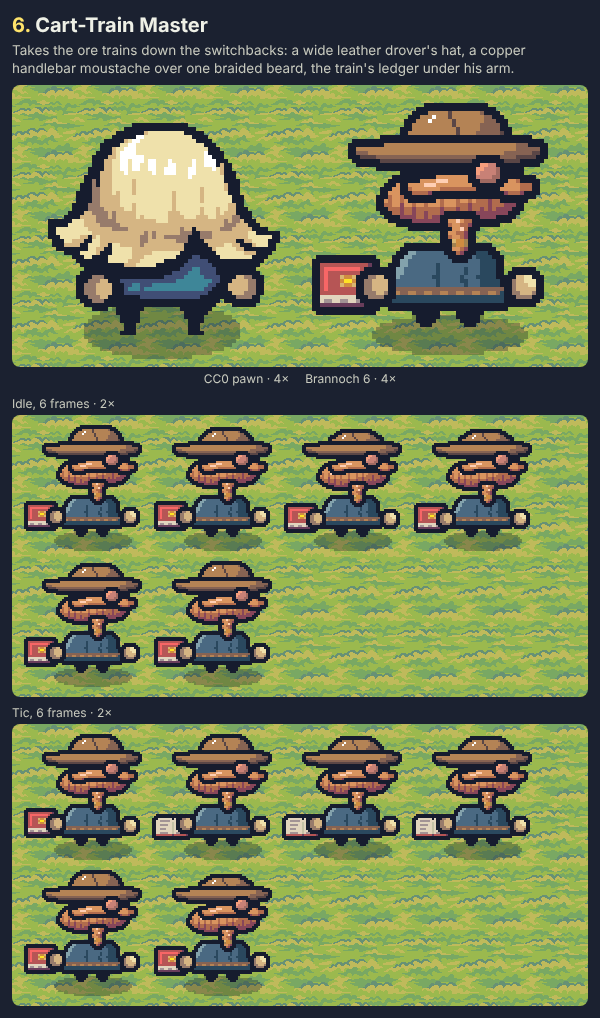
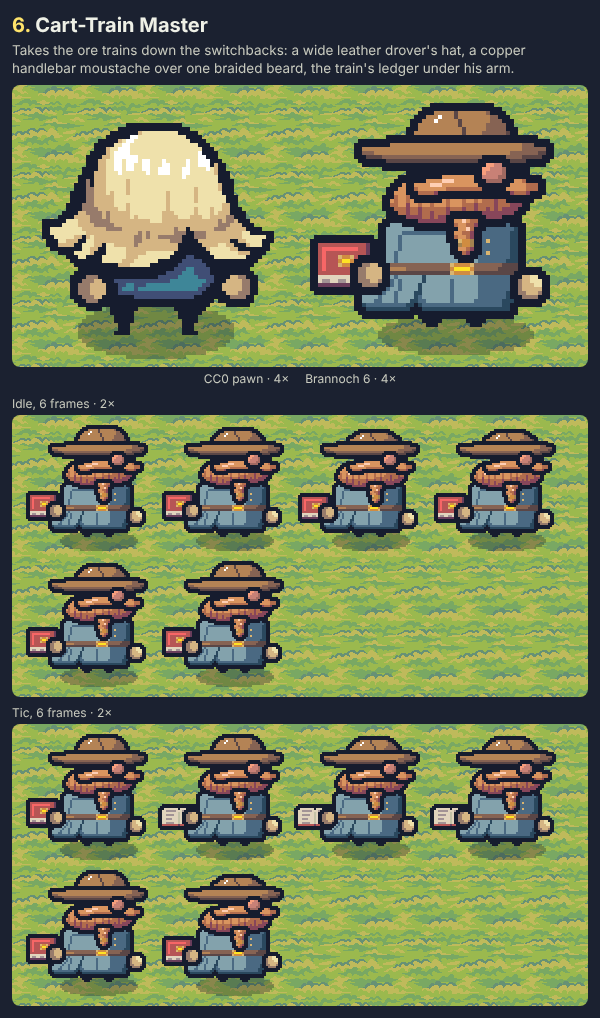
Brannoch: the top three get bodies of their own
The designer: "Body doesn't need to be shared, it should be unique". The
top three no longer wear the shared bell:

- d07 Mason Guild Elder: a short stone-grey smock under a long leather
  mason's apron to his boots (a stepped hem), dust ground in, a stitched
  pocket, a pouch and a chisel on the belt;
- d01 Lamp-Helm Foreman: a square padded jerkin in brick-set puffed
  quilting, leather braces and belt, a tin lamp-oil flask at the hip;
- d06 Cart-Train Master: a long square-shouldered drover's coat, a wide
  belt with a big buckle, brass buttons, skirts split at the vent and
  kicked out behind.

Three critique rounds at 1x, 3x and 8x; all ten stay in the pack's
bands, on the CC0 palette, with every prop clear of the head in every
frame. New cards: bodies.png (before vs after at 4x) and
d07/d01/d06-body.webp; the manifest and the main cards are regenerated.

Claude-Session: https://claude.ai/code/session_018uj2v7KuxpnPRQV4YJVgs7

diff --git a/scripts/designs/brannoch.ts b/scripts/designs/brannoch.ts
@@ -6,19 +6,23 @@
  *   npx tsx scripts/designs/brannoch.ts                 # measure all ten: bands, palette, clearance
  *   npx tsx scripts/designs/brannoch.ts --preview DIR   # 8× stills + 1×/3× line-ups for the critique rounds
  *   npx tsx scripts/designs/brannoch.ts --cards         # the cards in docs/characters/cards/designs/brannoch/
+ *   npx tsx scripts/designs/brannoch.ts --bodies [DIR]  # the top three's own bodies: before/after card + motion (or a preview into DIR)
  *
  * Every figure is a hand-authored pixel map (brannoch-d01.ts … brannoch-d10.ts);
  * brannoch-lib.ts only stamps the pack's outline and composes the frames. The
  * pack figures shown beside them are the old-CC0 stills already shipped in
  * public/assets/sprites/tinyswords/ (see sprites/CREDITS.md).
  */
-import { existsSync, mkdirSync, writeFileSync } from 'node:fs'
+import { existsSync, mkdirSync, readFileSync, writeFileSync } from 'node:fs'
 import { tmpdir } from 'node:os'
 import { join, resolve } from 'node:path'
 import sharp from 'sharp'
 import { H, INK, W, idleFrames, measure, misses, orphans, render, ticFrames, type Design, type Rgba } from './brannoch-lib'
 import { DESIGNS } from './brannoch-all'
-import { DASH } from './brannoch-common'
+import { AT, DASH } from './brannoch-common'
+import { BODY_SHARED as D01_SHARED } from './brannoch-d01'
+import { BODY_SHARED as D06_SHARED } from './brannoch-d06'
+import { BODY_SHARED as D07_SHARED } from './brannoch-d07'
 import { packColours } from './brannoch-pal'
 
 const ROOT = resolve(import.meta.dirname, '..', '..')
@@ -306,6 +310,107 @@ async function motion(d: Design, path: string, box: { x: number; y: number; w: n
     .toFile(path)
 }
 
+// ── the top three's own bodies (the designer: "Body doesn't need to be shared, it should be unique") ──
+
+interface Bodied {
+  id: string
+  /** The shared bell it wore before. */
+  shared: readonly string[]
+  /** Parts its own body moved, back where they stood in the bell. */
+  before?: Readonly<Record<string, readonly [number, number]>>
+  /** The body, in words, for the card. */
+  body: string
+}
+
+const BODIED: readonly Bodied[] = [
+  { id: 'd07', shared: D07_SHARED, body: 'a short stone-grey smock, belted, under a long leather mason\'s apron that hangs to his boots: dust ground in, a stitched pocket, a pouch and a chisel at the belt' },
+  { id: 'd01', shared: D01_SHARED, body: 'a square padded miner\'s jerkin in puffed quilting, leather braces and belt, a tin lamp-oil flask at the hip' },
+  {
+    id: 'd06',
+    shared: D06_SHARED,
+    before: { ledger: [18, 55], ledgerOpen: [17, 57], handB: [AT.handB[0], AT.handB[1]] },
+    body: 'a long drover\'s coat, square in the shoulder, a wide belt with a big buckle, the skirts split at the vent and kicked out behind',
+  },
+]
+
+/** The design as it stood in the shared bell: its own body parts gone, the bell back at the shared spot. */
+function before(d: Design, b: Bodied): Design {
+  const moved = b.before ?? {}
+  return {
+    ...d,
+    id: `${d.id}-shared`,
+    parts: d.parts
+      .filter((p) => !p.id.startsWith('body') || p.id === 'body')
+      .map((p) => (p.id === 'body' ? { ...p, x: AT.body[0], y: AT.body[1], rows: b.shared } : moved[p.id] ? { ...p, x: moved[p.id][0], y: moved[p.id][1] } : p)),
+  }
+}
+
+async function bodies(dir?: string) {
+  const out = dir ?? OUT
+  mkdirSync(out, { recursive: true })
+  const grass = b64(await sharp(join(PACK, 'grass.png')).png().toBuffer())
+  const pack = await Promise.all(PACK_PEOPLE.map(async (p) => ({ ...p, img: await readPack(p.file) })))
+  const pairs = BODIED.map((b) => {
+    const d = DESIGNS.find((x) => x.id === b.id)
+    if (!d) throw new Error(`no design ${b.id}`)
+    return { ...b, d, old: before(d, b), n: DESIGNS.indexOf(d) + 1 }
+  })
+  const box = frameBox(pairs.flatMap((p) => [render(p.old), ...idleFrames(p.d), ...ticFrames(p.d)]))
+  const cut = (img: Rgba) => crop(img, box.x0 - 2, box.y0 - 2, box.x1 - box.x0 + 5, box.y1 - box.y0 + 5)
+  const cell = async (img: Rgba, s: number) => b64(await png(img, s))
+  const rows = await Promise.all(
+    pairs.map(
+      async (p) => `<h2><span class="no">${p.n}.</span> ${p.d.title}</h2><p>${p.body}.</p>
+      <div class="two grass"><figure><img src="${await cell(cut(render(p.old)), 4)}"><figcaption>Before · the shared bell</figcaption></figure>
+      <figure><img src="${await cell(cut(render(p.d)), 4)}"><figcaption>After · his own body</figcaption></figure></div>`,
+    ),
+  )
+  const ones =
+    (await Promise.all(pack.map(async (p) => `<img src="${await cell(p.img, 1)}">`))).join('') +
+    (await Promise.all(pairs.map(async (p) => `<img src="${await cell(cut(render(p.d)), 1)}">`))).join('')
+  const threes = (await Promise.all(pairs.map(async (p) => `<img src="${await cell(cut(render(p.d)), 3)}">`))).join('')
+  const html = `<!doctype html><meta charset="utf-8"><style>${CSS(grass)}
+    .wrap{padding:12px;width:576px} h1{font-size:20px;margin:0 0 2px} p{margin:2px 0 6px;color:#c9cbbf;font-size:13px}
+    h2{font-size:17px;margin:12px 0 0} .no{color:#ffe46b}
+    .two{display:flex;justify-content:space-around;align-items:flex-end;border-radius:8px;padding:8px 4px 2px}
+    figure{margin:0;display:flex;flex-direction:column;align-items:center}
+    figcaption{font-size:12px;color:#fff;text-shadow:0 1px 0 #161c2e,0 0 3px #161c2e;margin:2px 0 4px}
+    .row{display:flex;align-items:flex-end;gap:3px;padding:8px;border-radius:8px;margin-top:6px;flex-wrap:wrap}
+    </style><div class="wrap"><h1>Brannoch · his own body</h1><p>The top three, each before (the one shared bell tunic) and after (a body drawn for who he is), at 4×.</p>
+    ${rows.join('')}
+    <h2>Together</h2><p>The three at 3×, then at 1× beside the CC0 pawn, knight, archer and torch goblin.</p>
+    <div class="row grass">${threes}</div><div class="row grass">${ones}</div></div>`
+  await shoot(html, join(out, 'bodies.png'), 600)
+  for (const p of pairs) {
+    const b = frameBox([...idleFrames(p.d), ...ticFrames(p.d)])
+    const bx = Math.max(0, b.x0 - 2), by = Math.max(0, b.y0 - 2)
+    await motion(p.d, join(out, `${p.d.id}-body.webp`), { x: bx, y: by, w: Math.min(W, b.x1 + 3) - bx, h: Math.min(H, b.y1 + 3) - by })
+  }
+  if (dir) return
+  type Card = { id: string; group: string; people: string; title: string; caption: string; file: string }
+  const mpath = join(OUT, 'manifest.json')
+  const keep = (JSON.parse(readFileSync(mpath, 'utf8')) as Card[]).filter((m) => m.id !== 'brannoch-bodies' && !m.id.endsWith('-body'))
+  keep.push(
+    {
+      id: 'brannoch-bodies',
+      group: GROUP,
+      people: 'Brannoch',
+      title: 'Brannoch · his own body',
+      caption: 'The top three, each before (the shared bell) and after (a body of his own), at 4×. Judge: does each body say who he is, and do the three differ below the beard?',
+      file: 'bodies.png',
+    },
+    ...pairs.map((p) => ({
+      id: `brannoch-${p.d.id}-body`,
+      group: GROUP,
+      people: 'Brannoch',
+      title: `${p.n}. ${p.d.title} · own body, motion`,
+      caption: `The idle and the tic in his own body: ${p.body}. Judge: is it broad and planted, and still head-led?`,
+      file: `${p.d.id}-body.webp`,
+    })),
+  )
+  writeFileSync(mpath, JSON.stringify(keep, null, 2) + '\n')
+}
+
 async function main() {
   const args = process.argv.slice(2)
   const pack = await packColours()
@@ -320,6 +425,11 @@ async function main() {
   if (args.includes('--cards')) {
     if (fail && !args.includes('--force')) throw new Error(`${fail} design(s) out of band: fix them before making cards`)
     await cards()
+  }
+  const bi = args.indexOf('--bodies')
+  if (bi >= 0) {
+    if (fail && !args.includes('--force')) throw new Error(`${fail} design(s) out of band: fix them before making cards`)
+    await bodies(args[bi + 1] && !args[bi + 1].startsWith('--') ? args[bi + 1] : undefined)
   }
 }
 

diff --git a/scripts/designs/brannoch-d07.ts b/scripts/designs/brannoch-d07.ts
@@ -83,7 +83,64 @@ const NOSE = [
   '.ccccc.',
 ]
 
-const BODY = bell({ 1: 'T', 2: 'P', 3: 'p', 4: 'u', 5: 'U' })
+/** The shared bell this design wore before it got its own body (for the before/after card). */
+export const BODY_SHARED = bell({ 1: 'T', 2: 'P', 3: 'p', 4: 'u', 5: 'U' })
+
+/** His own body: a short stone-grey smock with dust on its sleeves, belted, under the apron. */
+const BODY = [
+  '...TTPPPPPPPPPPPPPPPPPPPPPPPPpppp',
+  '..TTPPPPPPPPPPPPPPPPPPPPPPPPPPpppp',
+  '..TTPPPPPPPPPPPPPPPPPPPPPPPPPPpppp',
+  '.TTPPPPPPPPPPPPPPPPPPPPPPPPPPPppppp',
+  '.UUUUUUUUUUUUUUUUUUUUUUUUUUUUUUuuuu',
+  '.uuuuuuuuuuuuuuuuuuuuuuuuuuuuuuuuuu',
+  'TTPPPLPPPPPPPPPPPPPPPPPPPPPPPpPPpppp',
+  'TTPPTLPPPPPPPPPPPPPPPPPPPPPPPpPPpppp',
+  'TPPPPPPPPPPPPPPPPPPPPPPPPPPPpPPPpppp',
+  'TPPPPPPPPPPPPPPPPPPPPPPPPPPPpPPPpppp',
+  'pppppppppppppppppppppppppppppppppppp',
+]
+
+/**
+ * The long leather mason's apron that hangs below the smock to his boots (the stepped hem is
+ * his silhouette): stone dust ground into it, a stitched pocket with a chisel's steel showing.
+ */
+const APRON = [
+  '..VVVVVVVVVVVVVUUu',
+  '..VVTVVVVVVVVVVUUu',
+  '..VTTVVVVVVVVVVUUu',
+  '.VVVVVVVVVVVVVVVUUu',
+  '.VVVVVVVVVVJIVVVUUu',
+  '.VVVVVVVVVuJIuuuUUu',
+  '.VVVVVVVVVuUVUUuUUu',
+  'VVVVVVVTVVuUUUUuUUuu',
+  'VVVVVVTTVVuUUUUuUUuu',
+  'VVVVVVVVVVuuuuuuUUuu',
+  'VtVVtVVtVVtVVtVVtUuu',
+  'UVVVVVVVVVVVVVVVUUuu',
+  '.uUUUUUUUUUUUUUUUuu',
+  '..uuuuuuuuuuuuuuuu',
+]
+
+/** A leather pouch on the back hip, its flap held by a brass stud. */
+const POUCH = [
+  'UUUUUu',
+  'VVtVUu',
+  'VVVVUu',
+  'UVVVUu',
+  'UUUUuu',
+  '.uuuu',
+]
+
+/** A second chisel hung blade-down through a loop on the belt, at his front hip. */
+const CHISEL = [
+  'uUu',
+  '.JI',
+  '.JI',
+  '.JI',
+  '.Ji',
+  '..i',
+]
 
 const MALLET = [
   '......VU',
@@ -107,16 +164,19 @@ export const D07: Design = {
   parts: [
     { id: 'shadow', group: 'feet', x: AT.shadow[0], y: AT.shadow[1], rows: SHADOW, ring: 0 },
     { id: 'feet', group: 'feet', x: AT.feet[0], y: AT.feet[1], rows: FEET, ring: 0 },
-    { id: 'body', group: 'body', x: AT.body[0], y: AT.body[1], rows: BODY },
+    { id: 'body', group: 'body', x: 32, y: 52, rows: BODY },
+    { id: 'bodyPouch', group: 'body', x: 34, y: 57, rows: POUCH },
+    { id: 'bodyChisel', group: 'body', x: 61, y: 57, rows: CHISEL, ring: 1 },
+    { id: 'bodyApron', group: 'body', x: 41, y: 55, rows: APRON },
     { id: 'fringe', group: 'head', x: 31, y: 28, rows: FRINGE },
     { id: 'dome', group: 'head', x: 36, y: 20, rows: DOME, squash: [4, 7] },
     { id: 'beard', group: 'head', x: 29, y: 36, rows: BEARD, sags: true },
     { id: 'brows', group: 'head', x: 46, y: 30, rows: BROWS },
     { id: 'moustache', group: 'head', x: 42, y: 37, rows: MOUSTACHE },
     { id: 'nose', group: 'head', x: 58, y: 34, rows: NOSE },
-    { id: 'mallet', group: 'prop', x: 63, y: 61, rows: MALLET },
-    { id: 'handB', group: 'hands', x: AT.handB[0], y: AT.handB[1], rows: FIST_B },
-    { id: 'handF', group: 'hands', x: AT.handF[0], y: AT.handF[1], rows: FIST_F },
+    { id: 'mallet', group: 'prop', x: 64, y: 61, rows: MALLET },
+    { id: 'handB', group: 'hands', x: 27, y: 58, rows: FIST_B },
+    { id: 'handF', group: 'hands', x: 67, y: 58, rows: FIST_F },
   ],
   idle: [
     {},

diff --git a/scripts/designs/brannoch-d06.ts b/scripts/designs/brannoch-d06.ts
@@ -72,7 +72,38 @@ const NOSE = [
   '.cccc.',
 ]
 
-const BODY = bell({ 1: 'N', 2: 'n', 3: 'v', 4: 'U', 5: 'V' })
+/** The shared bell this design wore before it got its own body (for the before/after card). */
+export const BODY_SHARED = bell({ 1: 'N', 2: 'n', 3: 'v', 4: 'U', 5: 'V' })
+
+/**
+ * His own body: a long overcast-blue drover's coat, square in the shoulder with a
+ * turned collar, brass buttons down the front, a wide leather belt with a big buckle,
+ * and skirts that split at the back vent and kick out behind him.
+ */
+const COAT = [
+  '.......NNNNNNNNNNNNNNNNNNNNnnnnnnnnnn',
+  '......NNNNNNNNNNNNNNNNNNNNNNNnnnnnnnnnv',
+  '......NNNNnnnnnnnnnnnnnnnnnnnnnnnnnnnvv',
+  '......NNNnNNNNNNNNNNNNNNNNNNNnnnnnnnnvv',
+  '......NNNnNNNNNNNNNNNNNNNNNNNnntnnnnnvv',
+  '......NNNnNNNNNNNNNNNNNNNNNNNnnnnnnnnvv',
+  '......NNNnNNNNNNNNNNNNNNNNNNNnnnnnnnnvv',
+  '......NNnNNNNNNNNNNNNNNNNNNNNnntnnnnnvv',
+  '......NNnNNNNNNNNNNNNNNNNNNNNnnnnnnnnvv',
+  '......NNnNNNNNNNNNNNNNNNNNNNNnnnnnnnvvv',
+  '......UUUUUUUUUUUUUUUUtAAAAtUUUUUUUuuuu',
+  '......VVVVVUUUUUUUUUUUAyyyyAUUUUUUuuuuu',
+  '......uuuuuuuuuuuuuuuutAAAAtuuuuuuuuuuu',
+  '.....NNNnNNNNNNvNNNNNNNNNNNNNnnnnnnnnvv',
+  '....NNNnNnNNNNNvNNNNNNnNNNNNNnnnnnnnnvv',
+  '...NNNNnNnNNNNvNNNNNNNnNNNNNNnnnnnnnnvv',
+  '..NNNNnNNnNNNNvNNNNNNNnNNNNNNnnnnnnnnvv',
+  '.NNNNnNNnNNNNvvNNNNNNNnNNNNNNnnnnnnnvvv',
+  'NNNNnNNNnNNNNvnNNNNNNNnNNNNNNnnnnnnnvvv',
+  'NNNnnNNNnNNNvvnnNNNNNNnNNNNNnnnnnnnvvv',
+  'vnnnnnnnnnnvv.vnnnnnnnnnnnnnnnnnnnnvv',
+  '.vvvvvvvvvvv...vvvvvvvvvvvvvvvvvvvvvv',
+]
 
 const LEDGER = [
   'RRRRRRRRRRRRr',
@@ -108,16 +139,16 @@ export const D06: Design = {
   parts: [
     { id: 'shadow', group: 'feet', x: AT.shadow[0], y: AT.shadow[1], rows: SHADOW, ring: 0 },
     { id: 'feet', group: 'feet', x: AT.feet[0], y: AT.feet[1], rows: FEET, ring: 0 },
-    { id: 'body', group: 'body', x: AT.body[0], y: AT.body[1], rows: BODY },
+    { id: 'body', group: 'body', x: 27, y: 45, rows: COAT },
     { id: 'beard', group: 'head', x: 34, y: 34, rows: BEARD, sags: true },
     { id: 'braid', group: 'head', x: 50, y: 44, rows: BRAID, sags: true },
     { id: 'crown', group: 'head', x: 40, y: 17, rows: CROWN, squash: [3, 4] },
     { id: 'brim', group: 'head', x: 27, y: 25, rows: BRIM },
     { id: 'moustache', group: 'head', x: 40, y: 33, rows: MOUSTACHE },
     { id: 'nose', group: 'head', x: 57, y: 30, rows: NOSE },
-    { id: 'ledger', group: 'prop', x: 18, y: 55, rows: LEDGER },
-    { id: 'ledgerOpen', group: 'prop', x: 17, y: 57, rows: LEDGER_OPEN, hidden: true },
-    { id: 'handB', group: 'hands', x: AT.handB[0], y: AT.handB[1], rows: FIST_B },
+    { id: 'ledger', group: 'prop', x: 16, y: 50, rows: LEDGER },
+    { id: 'ledgerOpen', group: 'prop', x: 14, y: 52, rows: LEDGER_OPEN, hidden: true },
+    { id: 'handB', group: 'hands', x: 26, y: 55, rows: FIST_B },
     { id: 'handF', group: 'hands', x: AT.handF[0], y: AT.handF[1], rows: FIST_F },
   ],
   idle: [

diff --git a/scripts/designs/brannoch-d01.ts b/scripts/designs/brannoch-d01.ts
@@ -92,13 +92,41 @@ const NOSE = [
   '.cccc.',
 ]
 
-const BODY = bell(
+/** The shared bell this design wore before it got its own body (for the before/after card). */
+export const BODY_SHARED = bell(
   { 1: 'N', 2: 'n', 3: 'v', 4: 'u', 5: 'U' },
   {
     5: '...VVUUUUUUUUUUUAttAUUUUUuuu',
     6: '..uuuuuuuuuuuuuaAAauuuuuuuuu',
   },
 )
+
+/** His own body: a padded miner's jerkin, square and boxy, quilted in puffed cells, brick-set and pinched at the seams, leather braces over it, a leather belt. */
+const BODY = [
+  '.NNNnNUuNnNNNNvNNnnvNUunvnnnnvn.',
+  'NNNnnNUunnNNNnvNnnnvNUunvnnnvvnn',
+  'NnnnvNUunvNnnnvnnnvvnUuvvnnvvvnn',
+  'vnvvvvUuvvvnvvvvvvvvvUuvvvvvvvvv',
+  'NNnNNNUuNNNNnNNnnvNNnUuNnnnvnnnn',
+  'NnnNNNUuNNNnnNnnnvNnnUuNnnvvnnnv',
+  'nnvNnnUuNnnnvNnnvvnnnUunnvvvnnvv',
+  'vvvvnvUuvnvvvvvvvvvvvUuvvvvvvvvv',
+  'UUUUUUUUUUUUUUtAAtUUUUUUUUUUUUuu',
+  'uuuuuuuuuuuuuuaAAauuuuuuuuuuuuuu',
+  'NNNNnNNNNnNNNNvNNnnvNNnnvnnnnvnn',
+  'NNNnnNNNnnNNNnvNnnnvNnnnvnnnvvnn',
+  '.vvvvvvvvvvvvvvvvvvvvvvvvvvvvvv.',
+]
+
+/** A tin lamp-oil flask with a brass stopper, hung from the belt on the front hip. */
+const FLASK = [
+  '.aAa',
+  '.iJi',
+  'iJwJIi',
+  'iJJIIi',
+  'iJIIii',
+  '.iiii',
+]
 
 const SLATE = [
   'tVVVVVVVVVVU',
@@ -158,7 +186,8 @@ export const D01: Design = {
   parts: [
     { id: 'shadow', group: 'feet', x: AT.shadow[0], y: AT.shadow[1], rows: SHADOW, ring: 0 },
     { id: 'feet', group: 'feet', x: AT.feet[0], y: AT.feet[1], rows: FEET, ring: 0 },
-    { id: 'body', group: 'body', x: AT.body[0], y: AT.body[1], rows: BODY },
+    { id: 'body', group: 'body', x: 34, y: 52, rows: BODY },
+    { id: 'bodyFlask', group: 'body', x: 58, y: 61, rows: FLASK },
     { id: 'beard', group: 'head', x: 31, y: 37, rows: BEARD, sags: true },
     { id: 'helm', group: 'head', x: 33, y: 18, rows: HELM, squash: [8, 11] },
     { id: 'brim', group: 'head', x: 31, y: 31, rows: BRIM },

diff --git a/scripts/designs/brannoch-common.ts b/scripts/designs/brannoch-common.ts
@@ -73,7 +73,8 @@ export const FIST_B = ['.eeEE', 'eeEEEE', 'eeEEEE', 'eeEEEE', 'eeeEEe', '.eeee']
 export const FIST_F = ['.EEFF', 'eEEFFF', 'eEEEFF', 'eEEEEE', 'eeEEEe', '.eeee']
 
 /**
- * The tunic every Brannoch wears under his head mass: a short, broad bell,
+ * The first-round tunic under the head mass (the top three — d01, d06, d07 — now
+ * wear bodies of their own, drawn in their files; skill § 4b): a short, broad bell,
  * square in the shoulder and flared at the hem (the pack's bodies are small
  * rounded masses, narrower than the head mass that overhangs them). Hand-drawn once in placeholder inks (1 light, 2 mid,
  * 3 shade, 4 hem trim, 5 stitch) and re-inked per design with {@link bell},
